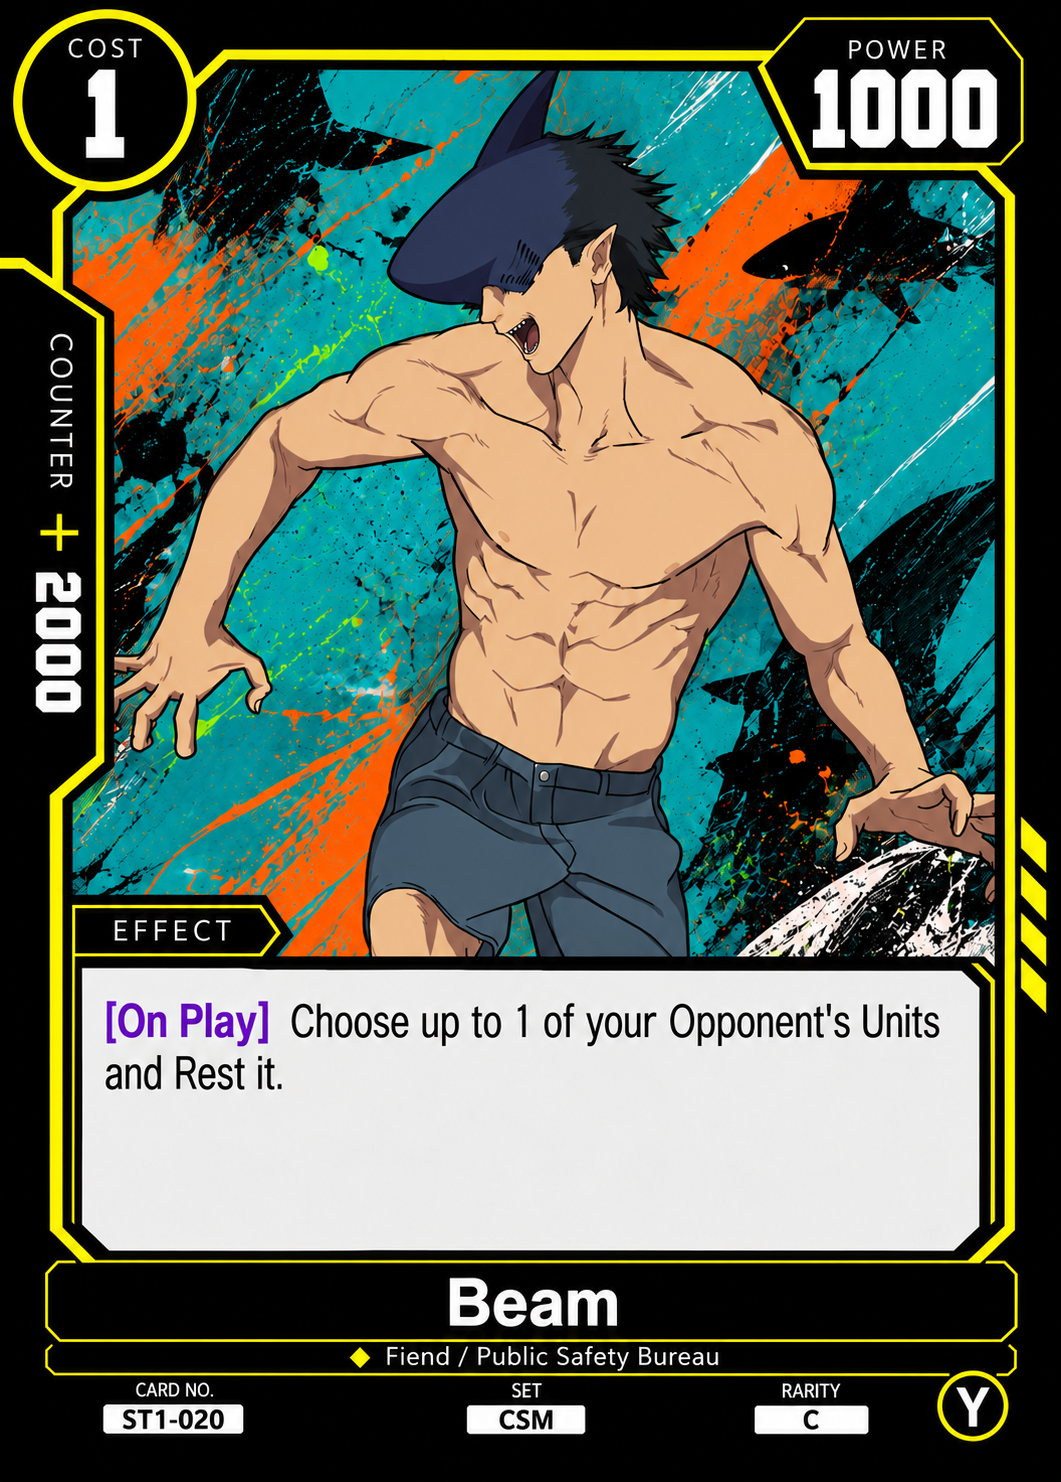
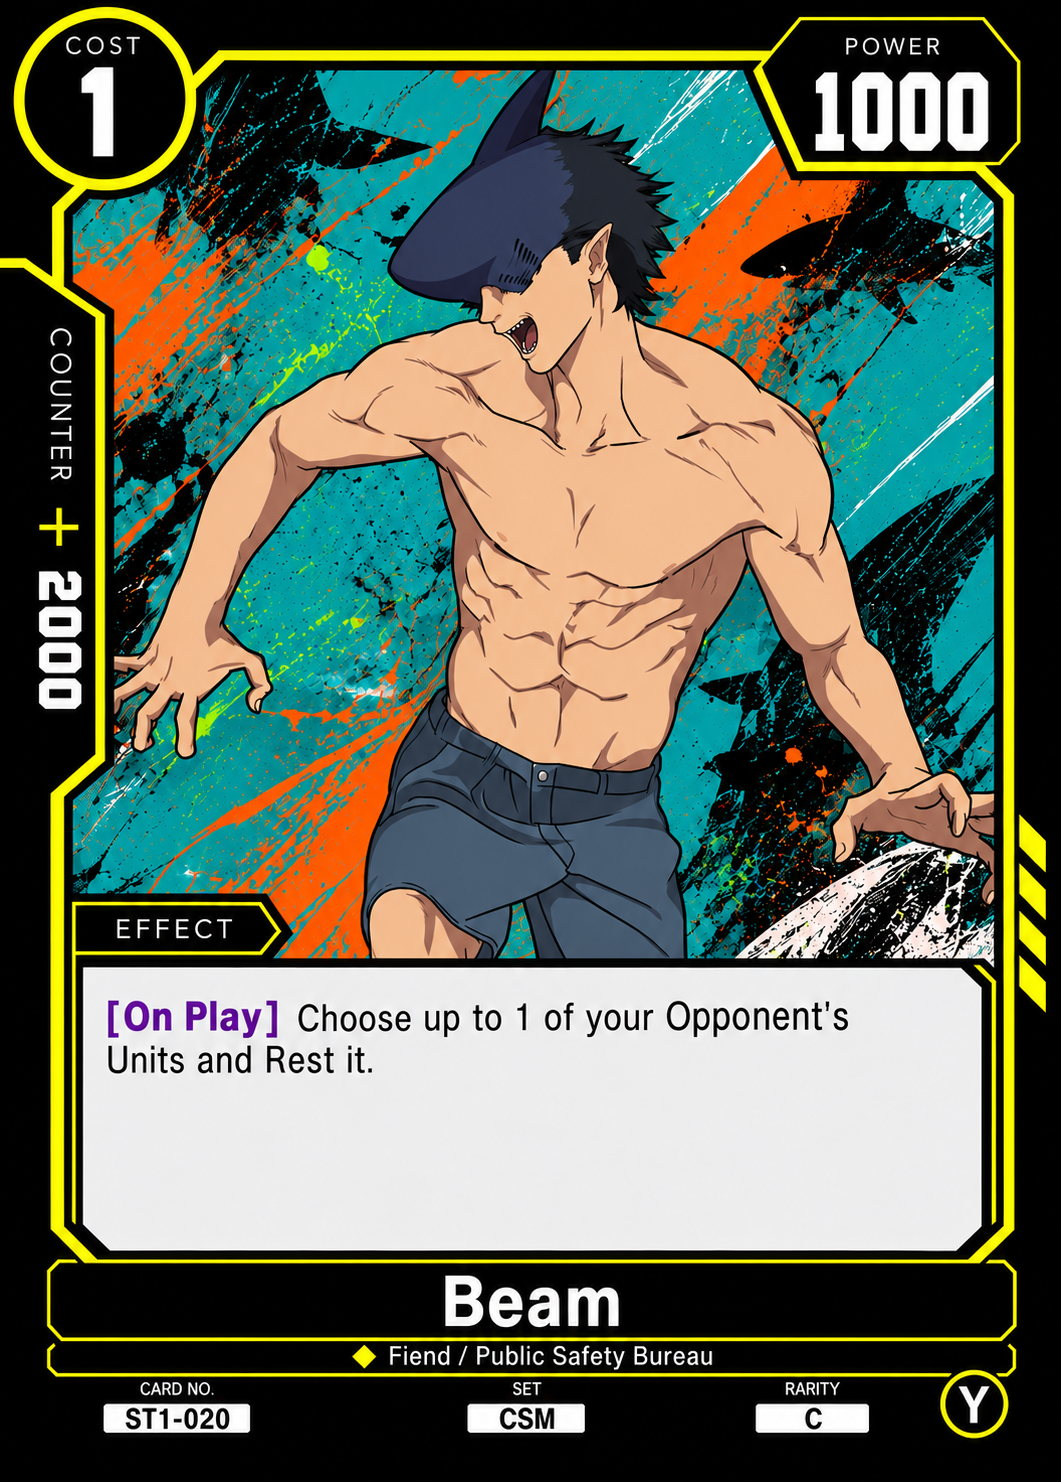
Add SD10 alternate arts, Beam reprint and accompanying promos

diff --git a/card-text-data.js b/card-text-data.js
@@ -28659,5 +28659,51 @@ window.SJTCG_CARD_TEXT = {
     "effect_html": "<span class=\"kw kw-orange\" title=\"Permanent\">Permanent</span> If your Leader has 3 or more Loop counters, give this card <span class=\"kw kw-red\" title=\"Barrier\">Barrier</span>.<br><span class=\"kw kw-purple\" title=\"Timing window\">[Activate: Battle]</span> <span class=\"kw kw-orange\" title=\"Once per Turn\">Once per Turn</span> Remove 1 Loop counter from your Leader: Choose up to 1 of your Opponent&#x27;s Units that&#x27;s in a battle with your Leader and give it -1000 Power for the battle.",
     "notes": "",
     "transcription_status": "verified"
+  },
+  "PUP-126": {
+    "card_no": "PUP-126",
+    "name": "Let’s make a secret alliance",
+    "color": "Yellow",
+    "cost": "2",
+    "sj_cost": "1",
+    "life": "",
+    "power": "",
+    "counter": "",
+    "traits": "",
+    "set": "CSM",
+    "rarity": "P",
+    "bottom_right_circle": "Y",
+    "effect": "Clash [Opponent's Attack] Remove this card from the game: Your Opponent's Units cannot attack your Rested Units with a Cost of 5 or more for the turn.",
+    "effect_html": "<span class=\"kw kw-green\" title=\"Clash\">Clash</span> <span class=\"kw kw-purple\" title=\"Timing window\">[Opponent&#x27;s Attack]</span> Remove this card from the game: Your Opponent&#x27;s Units cannot attack your Rested Units with a Cost of 5 or more for the turn.",
+    "notes": "",
+    "transcription_status": "verified",
+    "release": "PUP",
+    "deck_zone": "JUMP",
+    "card_category": "Main Deck",
+    "deck_limit": 1,
+    "orientation": "Landscape"
+  },
+  "PUP-127": {
+    "card_no": "PUP-127",
+    "name": "Power",
+    "color": "Yellow",
+    "cost": "1",
+    "sj_cost": "1",
+    "life": "",
+    "power": "3000",
+    "counter": "",
+    "traits": "Fiend / Public Safety Bureau",
+    "set": "CSM",
+    "rarity": "P",
+    "bottom_right_circle": "Y",
+    "effect": "[On Play] Rest 1 of your cards: Place 1 card from your hand at the bottom of your Deck; draw 1 card. Then, add up to 1 card from your Life to your hand.",
+    "effect_html": "<span class=\"kw kw-purple\" title=\"Timing window\">[On Play]</span> Rest 1 of your cards: Place 1 card from your hand at the bottom of your Deck; draw 1 card. Then, add up to 1 card from your Life to your hand.",
+    "notes": "",
+    "transcription_status": "verified",
+    "release": "PUP",
+    "deck_zone": "JUMP",
+    "card_category": "Main Deck",
+    "deck_limit": 1,
+    "orientation": "Portrait"
   }
 };

diff --git a/cards-data.js b/cards-data.js
@@ -4056,6 +4056,30 @@ window.SJTCG_CARD_DATA = [
     "imageVersion": "21b72b8029b2"
   },
   {
+    "number": "PUP-126",
+    "release": "PUP",
+    "set": "CSM",
+    "color": "Yellow",
+    "image": "images/PUP-126.jpg",
+    "deckZone": "JUMP",
+    "cardType": "Main Deck",
+    "deckLimit": 1,
+    "orientation": "Landscape",
+    "imageVersion": "1ceff6876262"
+  },
+  {
+    "number": "PUP-127",
+    "release": "PUP",
+    "set": "CSM",
+    "color": "Yellow",
+    "image": "images/PUP-127.jpg",
+    "deckZone": "JUMP",
+    "cardType": "Main Deck",
+    "deckLimit": 1,
+    "orientation": "Portrait",
+    "imageVersion": "229794e856c2"
+  },
+  {
     "number": "SD1-001",
     "release": "SD1",
     "set": "SMK",
@@ -4369,7 +4393,15 @@ window.SJTCG_CARD_DATA = [
     "cardType": "Main Deck",
     "deckLimit": 4,
     "orientation": "Portrait",
-    "imageVersion": "dc247f298d50"
+    "imageVersion": "dc247f298d50",
+    "altImages": [
+      {
+        "label": "Alt Art",
+        "image": "images/SD10-003-alt1.jpg",
+        "release": "SD10",
+        "imageVersion": "987c76a5f86c"
+      }
+    ]
   },
   {
     "number": "SD10-004",
@@ -4381,7 +4413,15 @@ window.SJTCG_CARD_DATA = [
     "cardType": "Main Deck",
     "deckLimit": 4,
     "orientation": "Portrait",
-    "imageVersion": "94dd75e947e2"
+    "imageVersion": "94dd75e947e2",
+    "altImages": [
+      {
+        "label": "Alt Art",
+        "image": "images/SD10-004-alt1.jpg",
+        "release": "SD10",
+        "imageVersion": "787cd60454c8"
+      }
+    ]
   },
   {
     "number": "SD10-005",
@@ -4417,7 +4457,15 @@ window.SJTCG_CARD_DATA = [
     "cardType": "Main Deck",
     "deckLimit": 4,
     "orientation": "Portrait",
-    "imageVersion": "294ecc92863b"
+    "imageVersion": "294ecc92863b",
+    "altImages": [
+      {
+        "label": "Alt Art",
+        "image": "images/SD10-007-alt1.jpg",
+        "release": "SD10",
+        "imageVersion": "166f0bf75ac4"
+      }
+    ]
   },
   {
     "number": "SD10-008",
@@ -7279,10 +7327,12 @@ window.SJTCG_CARD_DATA = [
     "orientation": "Portrait",
     "altImages": [
       {
-        "label": "Alt Art",
+        "label": "SD10 Reprint",
         "image": "images/ST1-020-alt1.jpg",
-        "imageVersion": "2ddf96b635ab",
-        "arenaId": "ST1-020-AA"
+        "imageVersion": "2c75672004e1",
+        "arenaId": "ST1-020-AA",
+        "release": "SD10",
+        "kind": "reprint"
       }
     ],
     "imageVersion": "b5a5f1ae9e34"

diff --git a/index.html b/index.html
@@ -214,8 +214,8 @@
     </section>
   </div>
 
-  <script src="cards-data.js?v=b5ad7df016aa"></script>
-  <script src="card-text-data.js?v=2587367e824b"></script>
+  <script src="cards-data.js?v=15536766be0a"></script>
+  <script src="card-text-data.js?v=51f307c66a9c"></script>
   <script src="app.js?v=20261009-reprint-search-2"></script>
 </body>
 </html>
